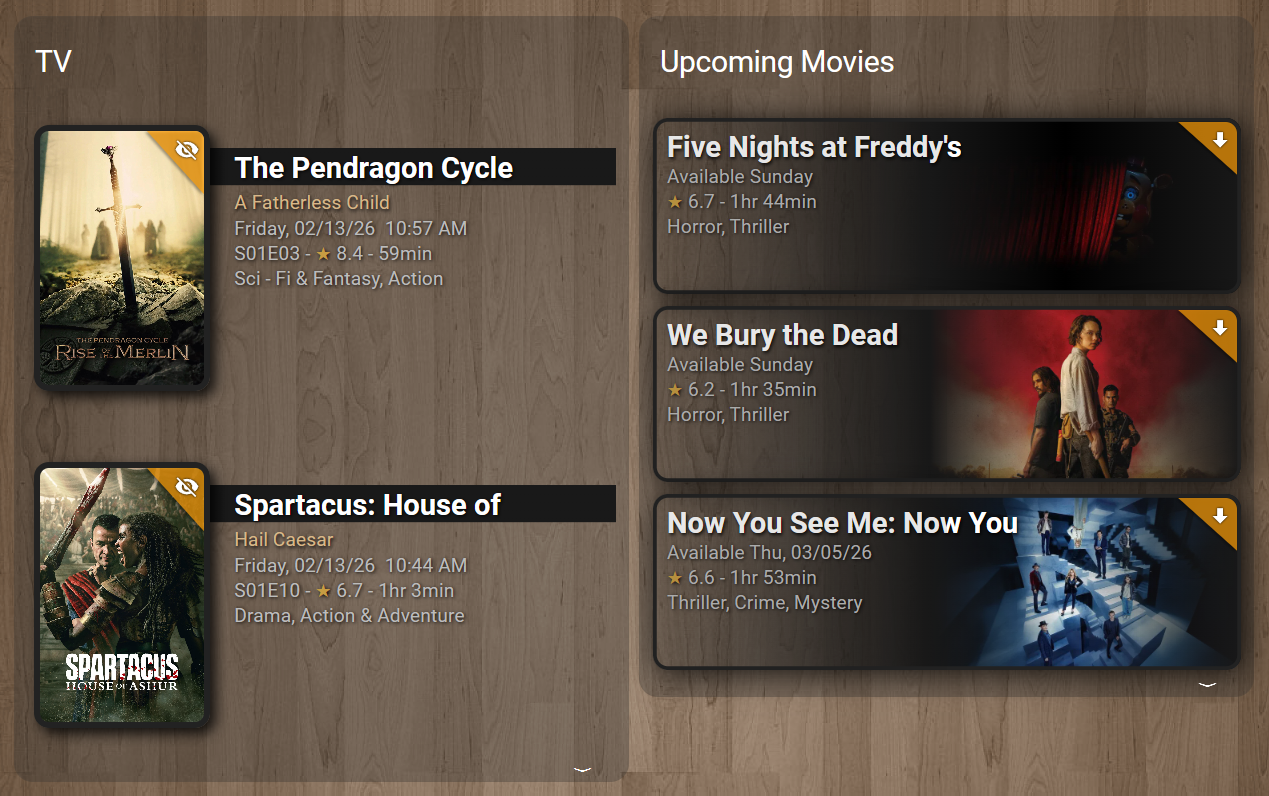
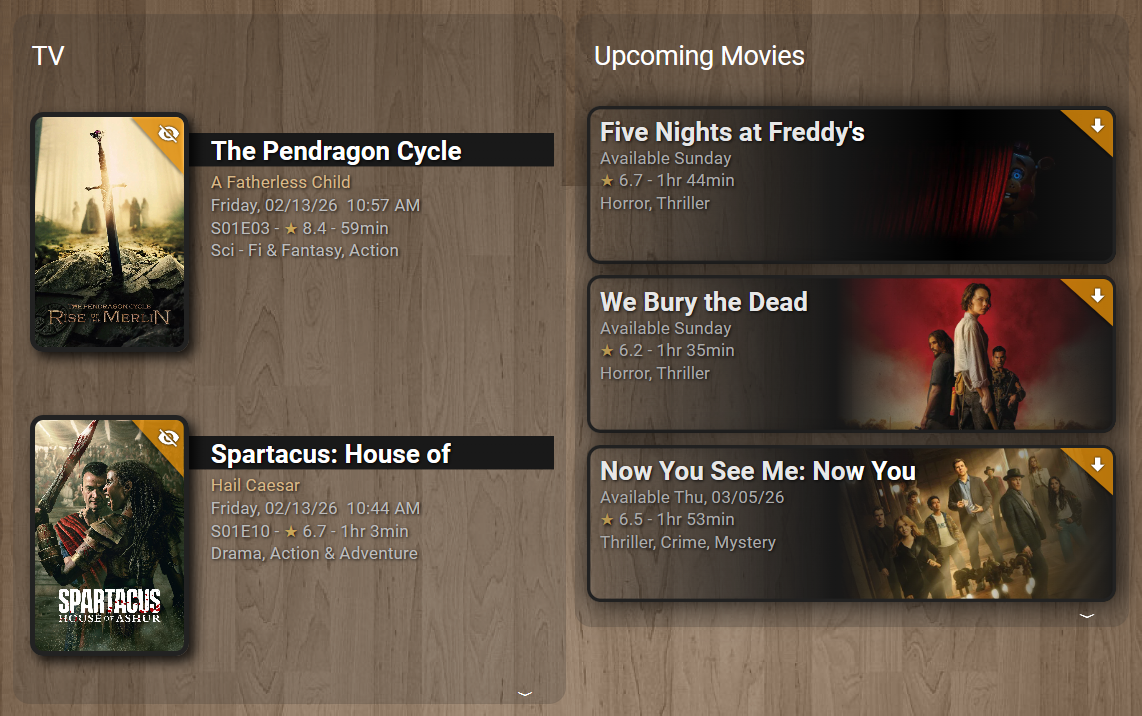
Fixed links and tooltips not responding. Fixed minor memory leak.

diff --git a/upcoming-media-card.js b/upcoming-media-card.js
@@ -12,8 +12,6 @@ class UpcomingMediaCard extends HTMLElement {
     this.style.touchAction = 'manipulation'; // Remove 300ms tap delay; allow pan + pinch zoom
   }
   disconnectedCallback() {
-    this.cleanupDeepLinkListeners();
-    this.cleanupTooltipListeners();
   }
   cleanupDeepLinkListeners() {
     this.deepLinkListeners.forEach((listeners, element) => {
@@ -225,6 +223,7 @@ class UpcomingMediaCard extends HTMLElement {
     if (listeners) {
       element.removeEventListener('click', listeners.click);
       element.removeEventListener('touchstart', listeners.touchstart);
+      element.removeEventListener('touchmove', listeners.touchmove);
       element.removeEventListener('touchend', listeners.touchend);
       this.deepLinkListeners.delete(element);
     }
@@ -713,6 +712,7 @@ class UpcomingMediaCard extends HTMLElement {
       `;
       this.appendChild(style);
     }
+    this.cleanupDeepLinkListeners();
     this.cleanupTooltipListeners();
     this.content.innerHTML = "";
 
@@ -817,9 +817,13 @@ class UpcomingMediaCard extends HTMLElement {
     const satRatio = defSat > 5 ? curSat / defSat : (curSat > 5 ? curSat / 55 : 1);
     const adjustedStar = (() => {
       const h = 41;
+      const brightnessAdjustment = 5;
+      const saturationAdjustment = 29;
+      const satCurveSteepness = 3.0; // TUNE THIS: higher = saturation ramps up faster with brightness (1.0 = linear, 2.0 = steep, 3.0 = very steep, 4.0+ = extreme)
       const brightBoost = Math.pow(brightRatio, 1.4) * (1 + Math.log1p(Math.pow(brightRatio, 2.5)) / Math.log(3));
-      let s = Math.round(Math.min(100, 57 * satRatio * 1.07 * brightBoost));
-      let l = Math.round(Math.min(100, 65 * brightRatio * 1.09));
+      const satBoost = Math.pow(brightRatio, satCurveSteepness);
+      let s = Math.min(100, Math.round(57 * satRatio * 1.07 * brightBoost * satBoost) + saturationAdjustment);
+      let l = Math.min(100, Math.round(65 * brightRatio * 1.09) + brightnessAdjustment);
       const hsl2rgb = (h, s, l) => {
         s /= 100; l /= 100;
         const k = n => (n + h / 30) % 12;
